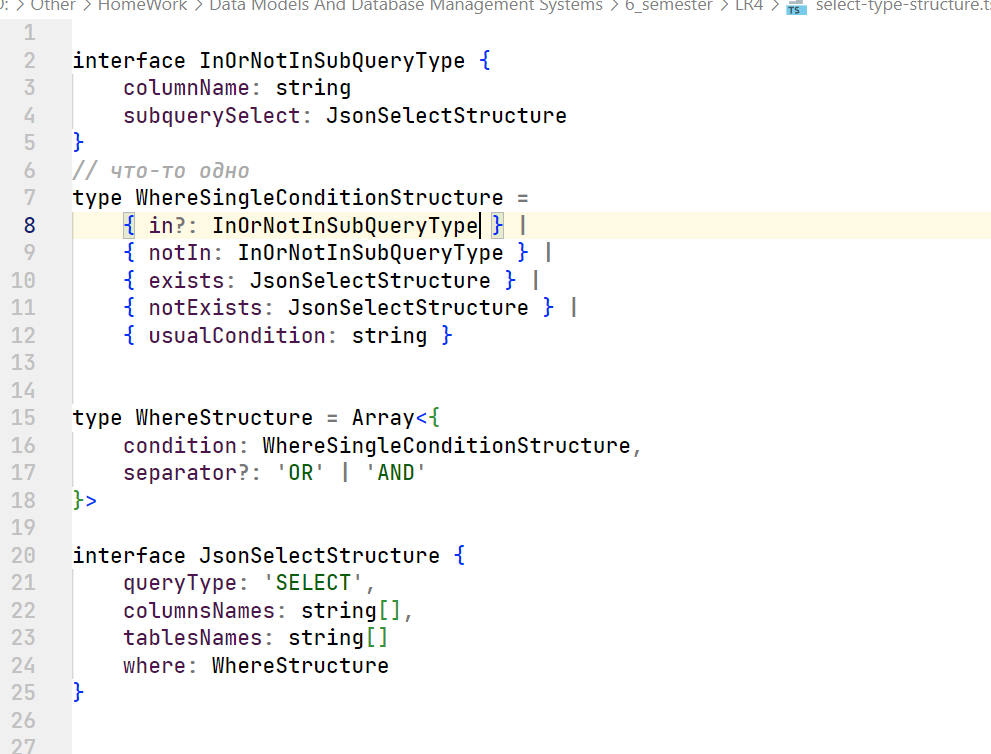
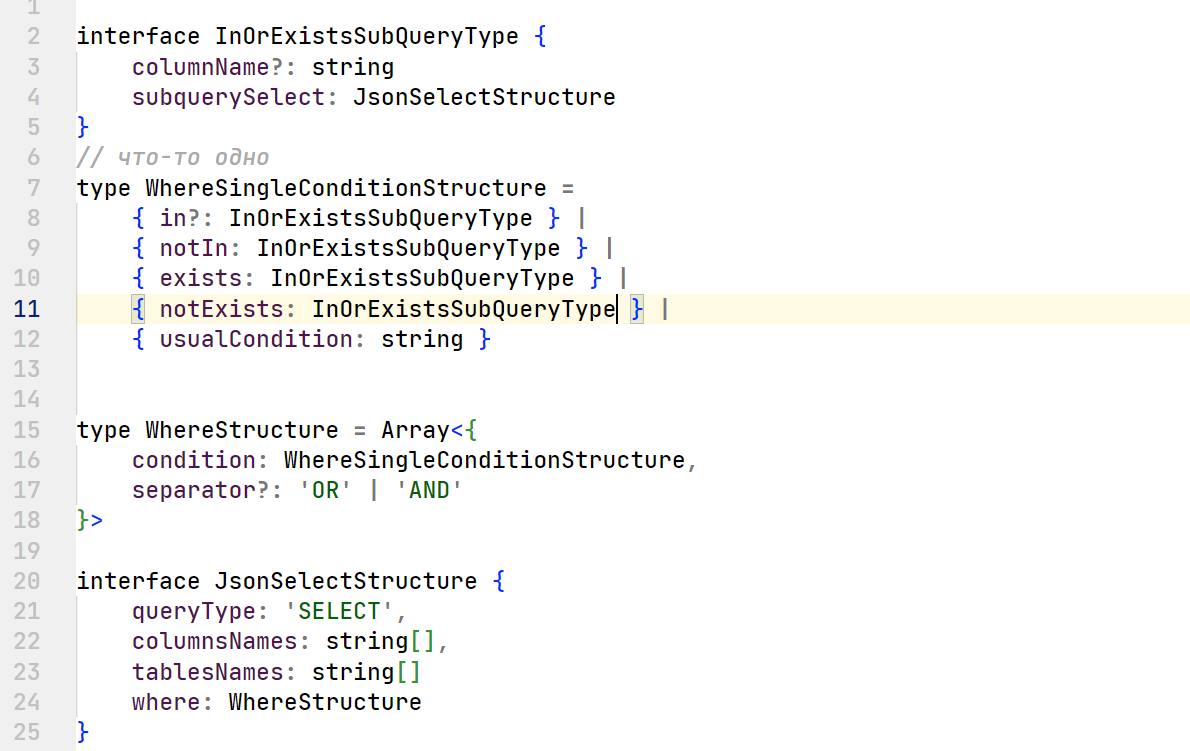
feat: SELECT query for LR4 is almost ready (need to add JOINs or UNIONs)

diff --git a/6_semester/LR4/select-type-structure.ts b/6_semester/LR4/select-type-structure.ts
@@ -1,14 +1,14 @@
 
-interface InOrNotInSubQueryType {
-    columnName: string
+interface InOrExistsSubQueryType {
+    columnName?: string
     subquerySelect: JsonSelectStructure
 }
 // что-то одно
 type WhereSingleConditionStructure =
-    { in?: InOrNotInSubQueryType } |
-    { notIn: InOrNotInSubQueryType } |
-    { exists: JsonSelectStructure } |
-    { notExists: JsonSelectStructure } |
+    { in?: InOrExistsSubQueryType } |
+    { notIn: InOrExistsSubQueryType } |
+    { exists: InOrExistsSubQueryType } |
+    { notExists: InOrExistsSubQueryType } |
     { usualCondition: string }
 
 
